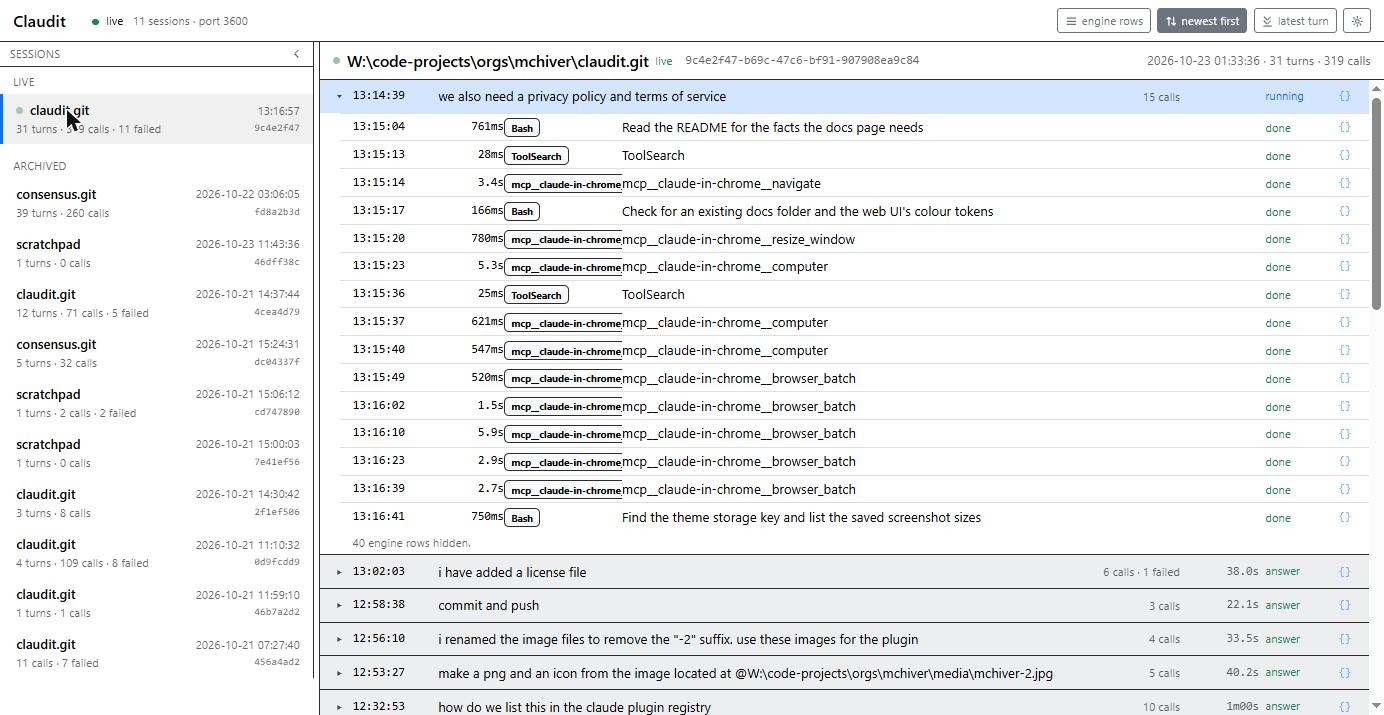
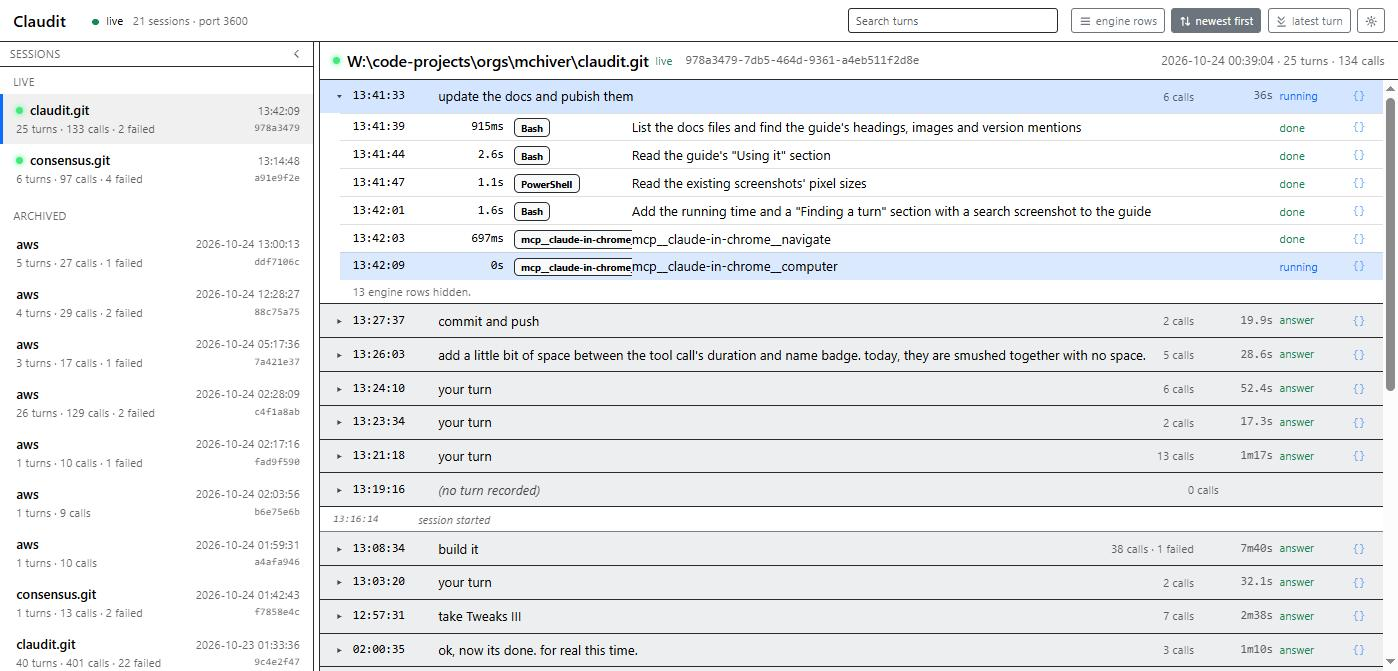
The docs site for 0.6.0: the search box, the running time, two screenshots

Changed region(s): [[0.0, 0.0, 1.0, 1.0], [0.8389, 0.7154, 0.8699, 0.7452], [0.8389, 0.5663, 0.8699, 0.5961]]

diff --git a/docs/index.html b/docs/index.html
@@ -69,7 +69,7 @@
 	<p>While Claude works, the status line shows the tool in flight, how long it has run and what it is doing, with the count of calls so far this turn. Open <a href="http://127.0.0.1:3600">http://127.0.0.1:3600</a> in a browser once a session has started the server, and the same session is there as it happens.</p>
 
 	<h3>Reading a turn</h3>
-	<p>A turn is one of your messages. It opens into the assistant's messages and the tool calls in order, each row with its time, the tool, a one-line summary, how long it took and how it ended: done, denied or failed. In a live session the latest turn stays open until the next one starts; a turn you open or close by hand keeps that choice.</p>
+	<p>A turn is one of your messages. It opens into the assistant's messages and the tool calls in order, each row with its time, the tool, a one-line summary, how long it took and how it ended: done, denied or failed. While a turn or a call is still running, its duration counts up in whole seconds until the exact figure arrives. In a live session the latest turn stays open until the next one starts; a turn you open or close by hand keeps that choice.</p>
 	<p>A call opens into its input, one field per line with a command or a file's content shown as it is, and its result rendered as markdown. An error result is tinted red. An assistant message opens into its text rendered the same way.</p>
 
 	<figure>
@@ -105,6 +105,14 @@
 	<figure>
 		<img src="images/dark.jpg" alt="The same page in the Dark palette.">
 		<figcaption>The Dark palette. Five light and five dark palettes are built in.</figcaption>
+	</figure>
+
+	<h3>Finding a turn</h3>
+	<p>The search box in the title bar filters the turns of the session on screen as you type. A turn stays when the text appears, ignoring case, in your message, in the assistant's text, or in a tool call's name or summary line; tool inputs and results are not searched. A count beside the box says how many turns match. The <code>×</code> or Escape clears it, and the text carries over when you pick another session.</p>
+
+	<figure>
+		<img src="images/search.jpg" alt="The search box in the title bar holding a word, the count of matching turns beside it, and only the matching turns listed.">
+		<figcaption>A search: only the turns holding the word are listed, with the count beside the box.</figcaption>
 	</figure>
 
 	<h3>Earlier sessions</h3>
